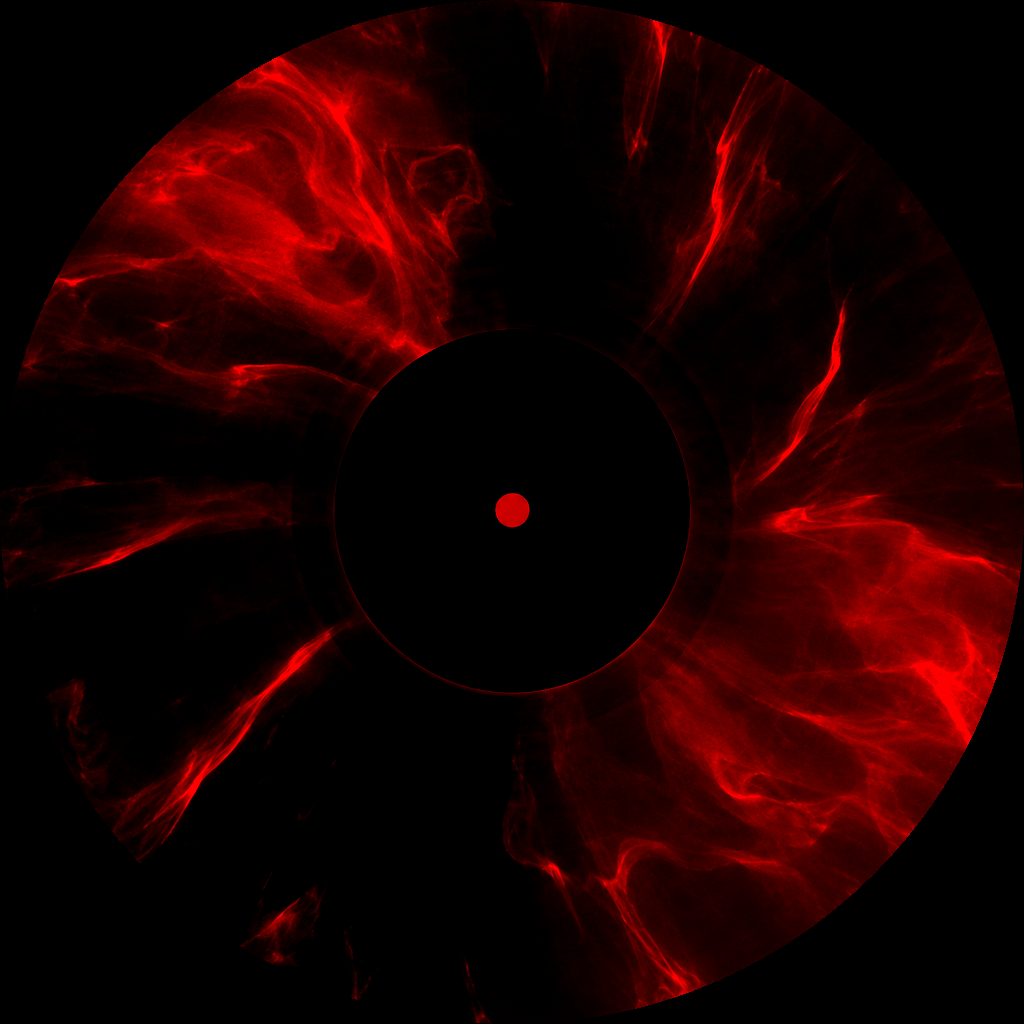
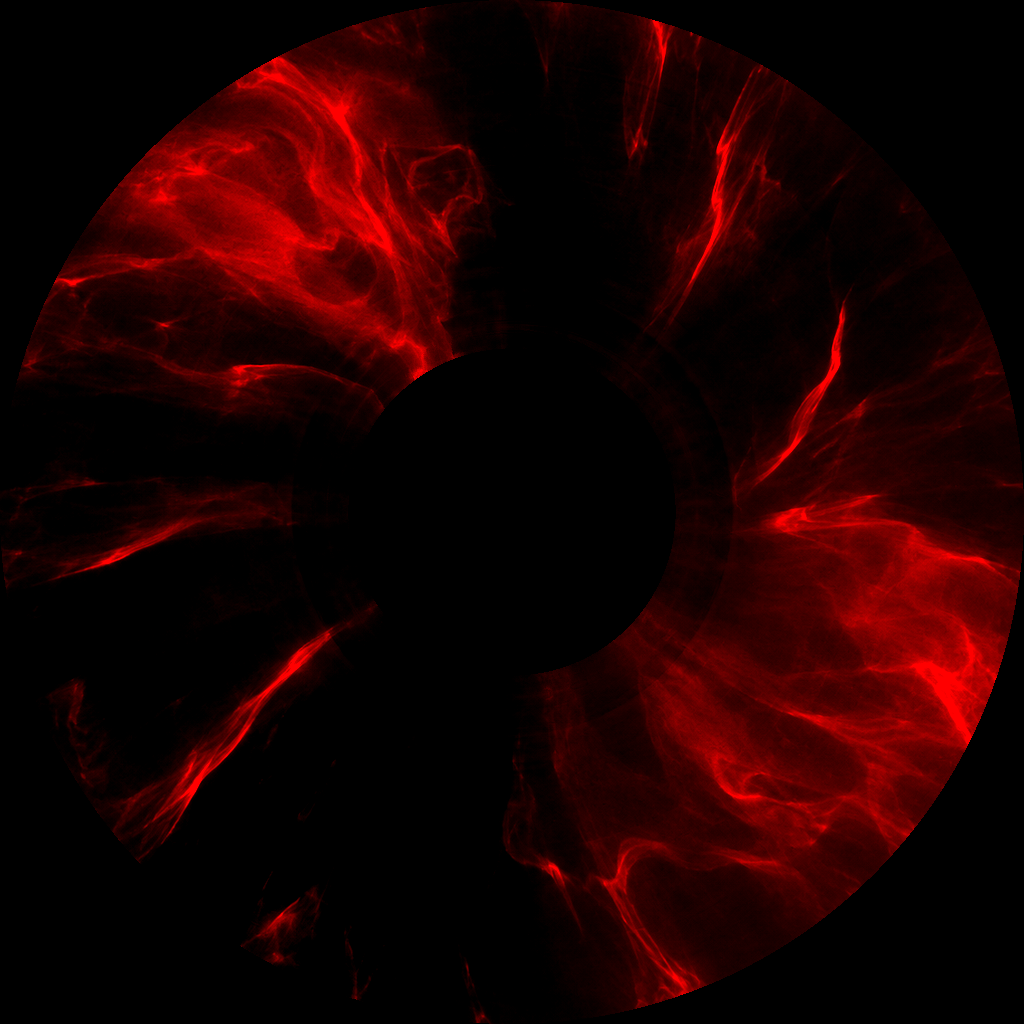
feat: add swirl-03; stop the photo's label edge showing as a ring
swirl-03 is a blue swirl with navy and pink veins (accent: the tonal
mode cannot keep pink on a blue base).

The generated photos often have a slightly larger blank label than the
page's, so a thin strip of label colour sat on visible vinyl and unmixed
as a pattern colour: a pale pink ring on swirl-03, a dark ring on the
smoke discs. vinyl-photo-extract.py now finds where the label colour
stops, fills that strip by mirroring the vinyl just outside, and leaves
the area under the page's label empty. smoke-02, smoke-03, smoke-04 and
splatter-10 are re-extracted with it; their palettes are unchanged.

diff --git a/tools/vinyl-photo-extract.py b/tools/vinyl-photo-extract.py
@@ -68,6 +68,19 @@ def kmeans(x, k, iters=25, seed=0):
     return c, lab
 
 
+def label_edge(lab, R, crop):
+    """Radius (crop units) just past the photo's label, or None. The label colour is read from a ring between the
+    spindle hole and the page's label edge; the edge is the first thin band where fewer than half the pixels still
+    match it. Only searched up to a little past the page's label, so a label the colour of the vinyl finds nothing."""
+    page = LABEL / crop
+    ref = np.median(lab[(R > 0.10) & (R < page - 0.08)], axis=0)
+    for r0 in np.arange(page - 0.04, page + 0.08, 0.004):
+        band = (R >= r0) & (R < r0 + 0.004)
+        if (np.linalg.norm(lab[band] - ref, axis=1) < 0.04).mean() < 0.5:
+            return float(r0 + 0.014) if r0 > page else None
+    return None
+
+
 def extract(photo, crop=0.975, clusters=3, accents=1):
     """Returns (list of N x N coverage arrays in 0..1, info dict)."""
     src = Image.open(photo).convert('RGB')
@@ -121,10 +134,26 @@ def extract(photo, crop=0.975, clusters=3, accents=1):
                 w[neg, o] = np.clip(d[neg] @ axes[o] / float(axes[o] @ axes[o]), 0, None)
     w = w.reshape(N, N, len(axes))
     layers, patterns = [], []
+    # The photo's blank label is often a little larger than the page's (radius 100 of 302), so its edge lands on
+    # visible vinyl and unmixes as whichever pattern colour is nearest (a pale ring of pink round a white label).
+    # Find where the label colour stops and fill the coverage inside it from the vinyl just outside.
+    edge = label_edge(lab, R, crop)
     for k in range(len(axes)):
         top = float(np.percentile(w[..., k][face], 99.5))
         cov = np.clip(w[..., k] / max(top, 1e-3), 0, 1)
         cov[R > 1.0] = 0
+        if edge:
+            # Mirror the vinyl just outside the edge inward across it, so the strip between the page's label and
+            # the photo's carries pattern instead of a flat band of base colour.
+            # Only the strip that shows: under the page's own label nothing is visible, so it stays empty (and the
+            # PNG stays small).
+            cov[R < LABEL / crop - 0.02] = 0
+            inner = (R < edge) & (R >= LABEL / crop - 0.02)
+            th = np.arctan2(yy - N / 2 + .5, xx - N / 2 + .5)
+            rm = np.minimum(2 * edge - R[inner], 0.99)
+            sx = np.clip(np.round(N / 2 - .5 + rm * np.cos(th[inner]) * N / 2), 0, N - 1).astype(int)
+            sy = np.clip(np.round(N / 2 - .5 + rm * np.sin(th[inner]) * N / 2), 0, N - 1).astype(int)
+            cov[inner] = cov[sy, sx]
         layers.append(cov)
         patterns.append(oklab_to_hex(B + axes[k] * top))
     t0 = w[..., 0][face]
@@ -133,6 +162,7 @@ def extract(photo, crop=0.975, clusters=3, accents=1):
         'photo': Path(photo).name, 'photoSize': list(src.size),
         'disc': {'cx': round(cx, 1), 'cy': round(cy, 1), 'r': round(r, 1), 'crop': crop,
                  'border': '#' + ''.join(f'{int(v):02x}' for v in border)},
+        'labelEdge': round(edge, 3) if edge else None,
         'base': oklab_to_hex(B), 'patterns': patterns,
         'clusters': [{'hex': oklab_to_hex(c), 'share': round(float(n / counts.sum()), 3)} for c, n in zip(cents, counts)],
         'baseLightnessStd': round(float(base_px[:, 0].std()), 4) if len(base_px) else None,

diff --git a/tools/bake-vinyl-masks.py b/tools/bake-vinyl-masks.py
@@ -109,6 +109,11 @@ CURATED = {
                               'master': 'output/texture-gen/library/splatter-11', 'reference': 'https://www.pinterest.com/pin/660621839101555565/',
[2 lines of base64/hex data omitted]
+    'swirl-03': {'role': 'layout', 'palette': 'accent', 'layers': ['layer1.png', 'layer2.png'], 'base': '#537df5', 'colors': ['#ffb7f5', '#0429b5'],
+                'source': {'kind': 'unlicensed-reference', 'operation': 'photo variant + colour extraction', 'date': '2026-10-21',
+                           'master': 'output/texture-gen/library/swirl-03', 'reference': 'https://www.pinterest.com/pin/687010118200326285/',
[2 lines of base64/hex data omitted]
 }
 
 # meta.disc_frac is the disc diameter as a fraction of the master's width. The masters extend the
